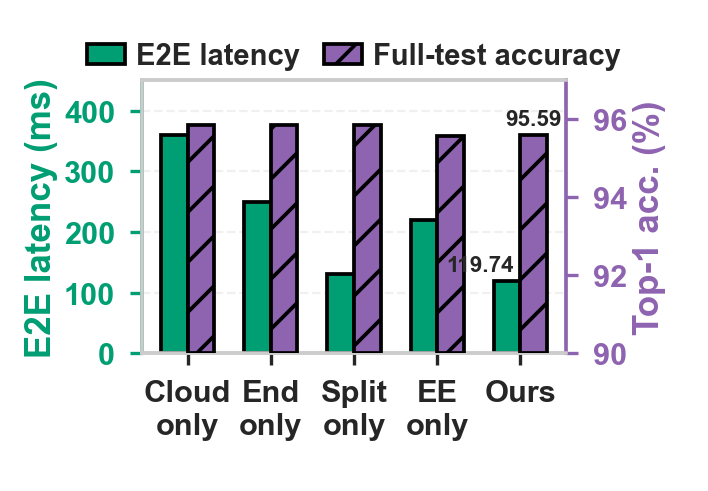
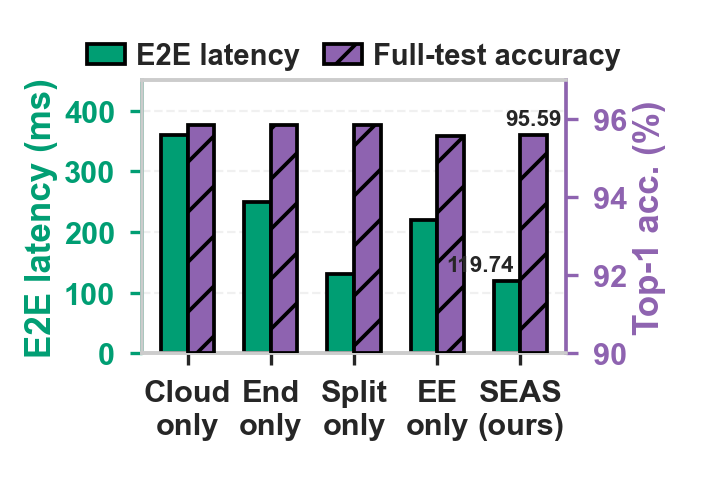
修改消融实验图

Changed region(s): [[0.6836, 0.7637, 0.8079, 0.8248], [0.6525, 0.8554, 0.8079, 0.8859]]

diff --git a/Scripts/Exp5_Ablation/plot_ablation.py b/Scripts/Exp5_Ablation/plot_ablation.py
@@ -63,7 +63,12 @@ def _load_plot_data(path: Path) -> tuple[list[str], np.ndarray, np.ndarray]:
     if not rows:
         raise ValueError(f"No plot data found in {path}")
     variants = [
-        row["variant"].replace(" only", "\nonly") for row in rows
+        (
+            "SEAS\n(ours)"
+            if row["variant"] == "Ours"
+            else row["variant"].replace(" only", "\nonly")
+        )
+        for row in rows
     ]
     latency = np.asarray([float(row["latency_ms"]) for row in rows], dtype=float)
     accuracy = np.asarray(
